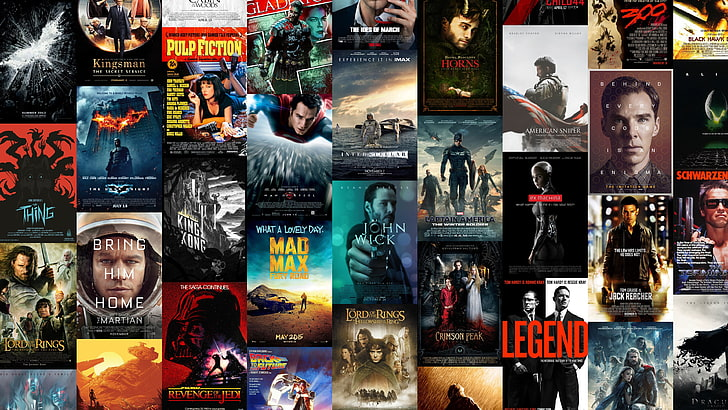
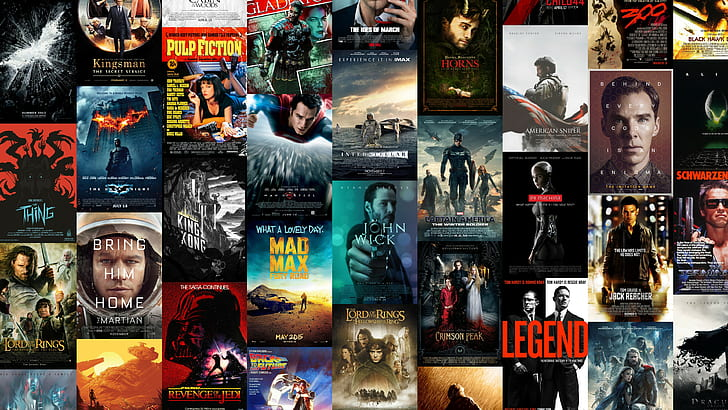
new image for movies project

diff --git a/src/components/WorkInfo/WorkInfo.jsx b/src/components/WorkInfo/WorkInfo.jsx
@@ -13,7 +13,7 @@ import Grilli from "../../assets/grilli.jpg";
 import Gamic from "../../assets/gamic.jpg";
 import Nike from "../../assets/nike.webp";
 import Travia from "../../assets/travia.jpg";
-import Movies from "../../assets/movies.jpg";
+import Movies from "../../assets/movies.webp";
 
 export const projectsData = [
   {
